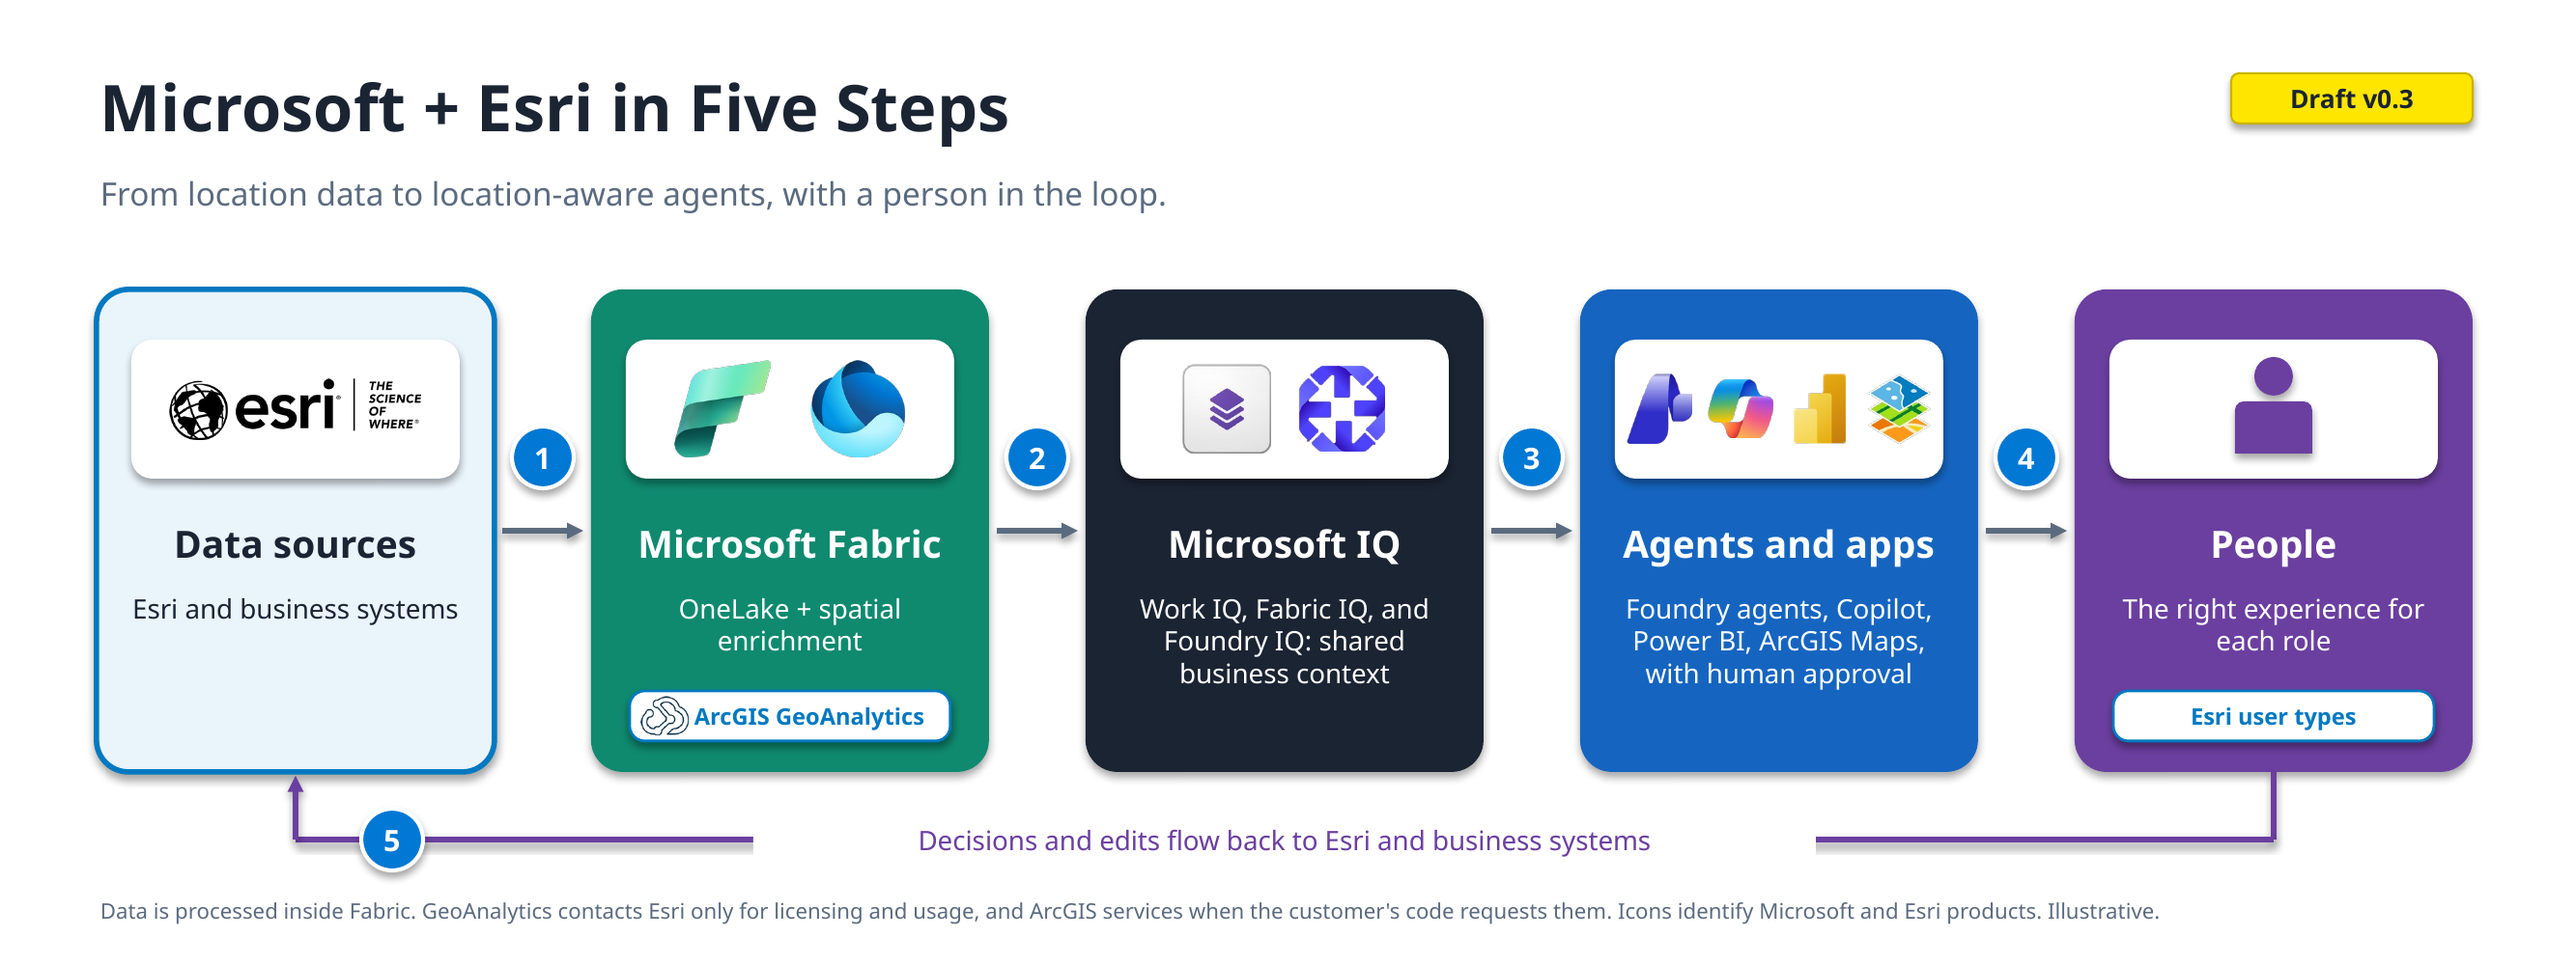
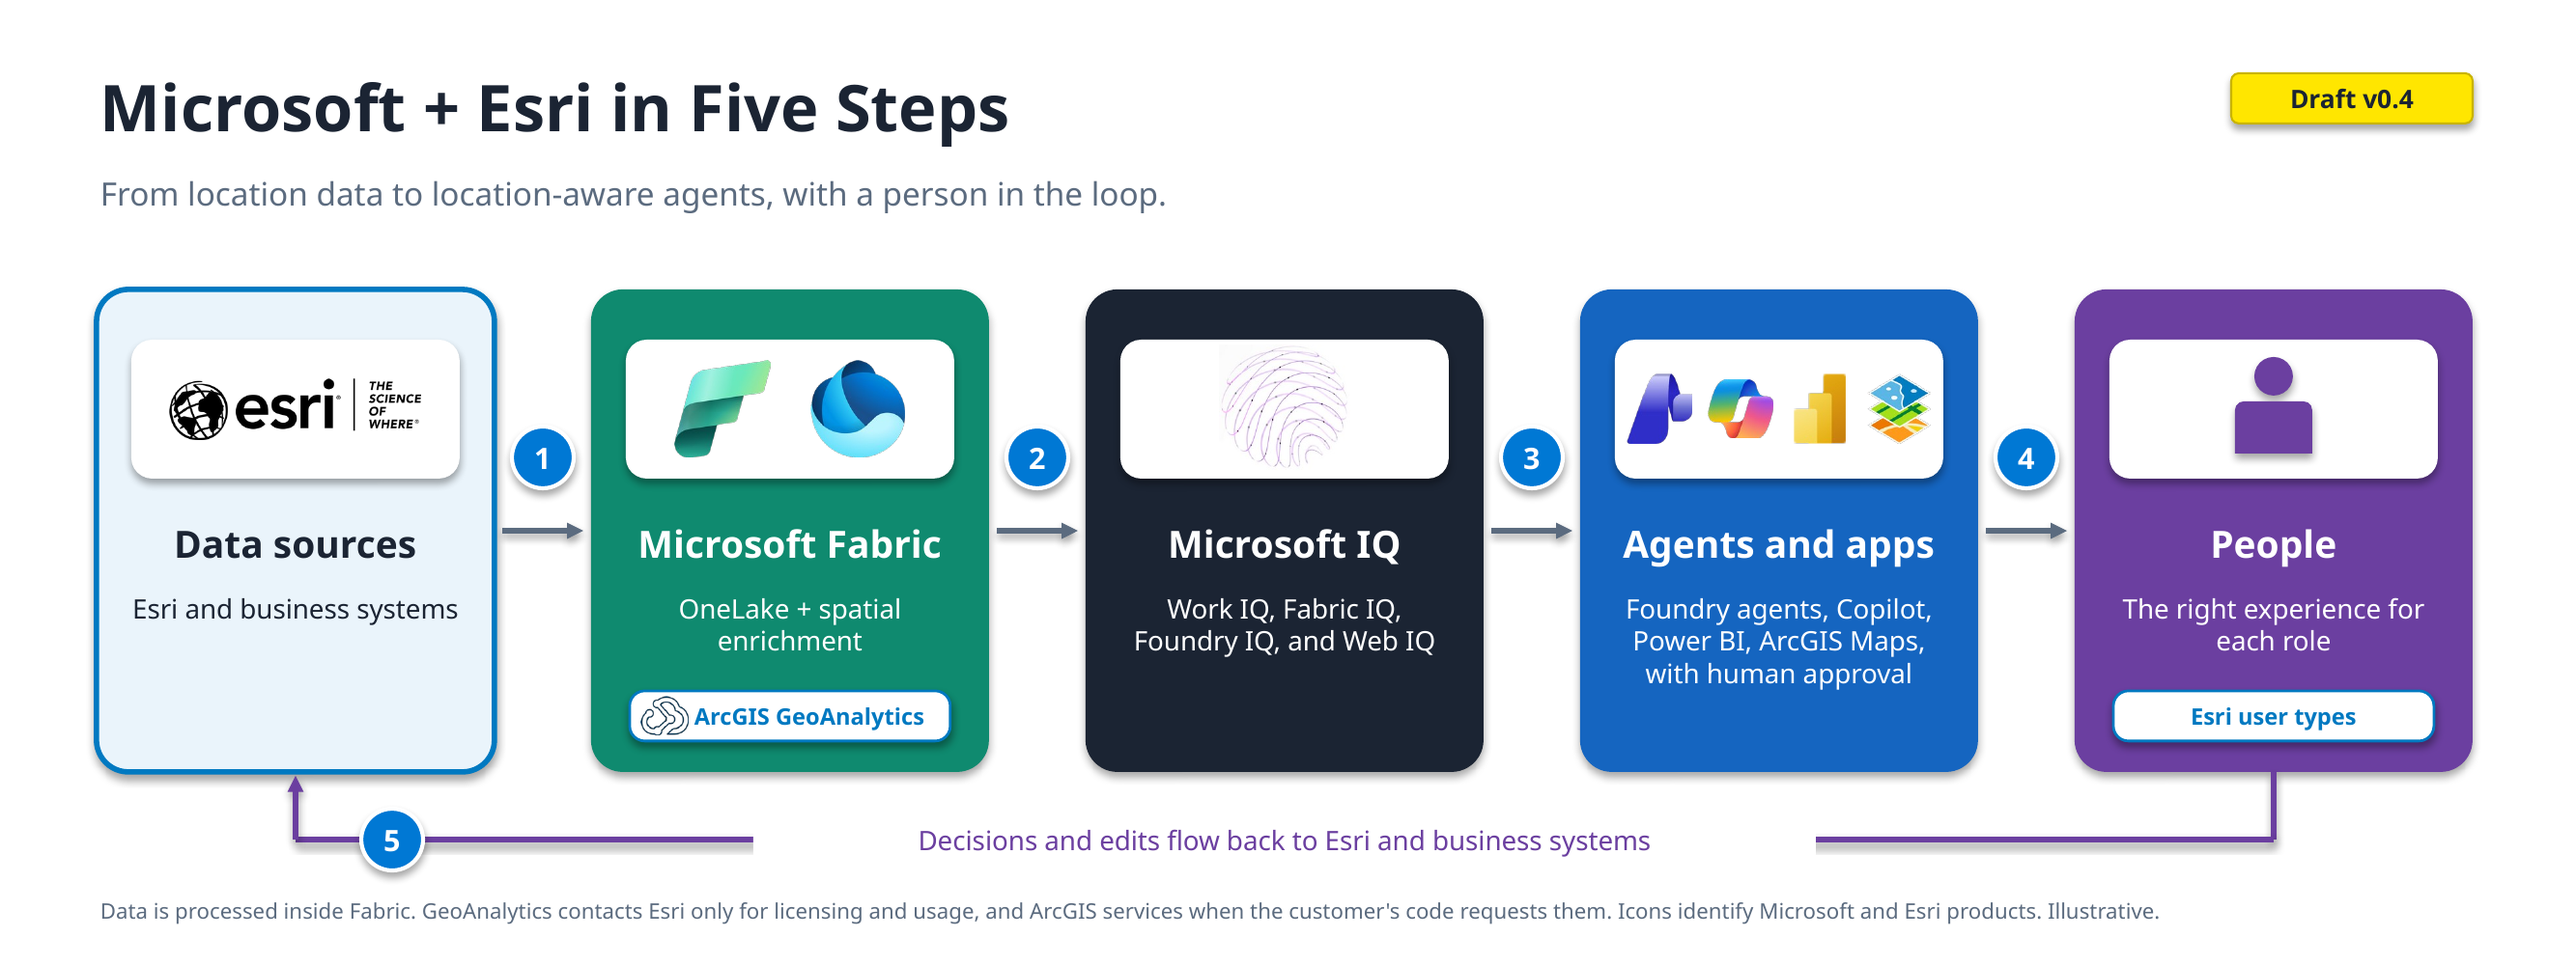
Foundation: five-step pitch leads the section; Web IQ added; Microsoft IQ sphere on tile (v0.4)

Changed region(s): [[0.4668, 0.372, 0.5602, 0.496], [0.4357, 0.62, 0.5602, 0.713]]

diff --git a/01-Microsoft-Esri-Foundation/README.md b/01-Microsoft-Esri-Foundation/README.md
@@ -1,6 +1,6 @@
 # Microsoft + Esri Foundation
 
-> **Status:** In progress. The five-step diagram (v0.3) and the detailed view (v0.9) are drafts; the integration landscape is current.
+> **Status:** In progress. The five-step diagram (v0.4) and the detailed view (v0.9) are drafts; the integration landscape is current.
 
 ## Purpose
 
@@ -12,17 +12,35 @@ Each component folder that follows (GeoAnalytics, Maps for Fabric, Power BI) goe
 
 ## The Story in One View
 
+**Microsoft + Esri turn location data into location-aware agents, with a person in the loop.** Esri and business data come together in Microsoft Fabric, get enriched with spatial analysis, are grounded by Microsoft IQ, and reach every role through agents and the apps people already use. Decisions flow back to where the data started.
+
 ![Microsoft + Esri in Five Steps](images/microsoft-esri-five-steps.png)
 
-1. **Data sources to Fabric.** Esri and business data flow into Microsoft Fabric, copied into OneLake or read in place from ArcGIS.
-2. **Fabric to Microsoft IQ.** After spatial enrichment with ArcGIS GeoAnalytics, Microsoft IQ models and indexes the data so agents understand what it means. The data stays in OneLake.
-3. **Microsoft IQ to agents and apps.** Grounded context powers agents, reports, maps, and conversations, with a person approving before any action.
-4. **Agents and apps to people.** Outcomes reach each persona in the tool, and Esri user type, that fits their role.
-5. **Back to the source.** Decisions and edits flow back to Esri and business systems.
+### 1. Data sources: start where the data lives
+
+Location data lives in Esri: ArcGIS Online, ArcGIS Enterprise, and field apps. Operational data lives in business systems such as ERP, asset management, and IoT. The story starts by bringing both together instead of keeping maps and business records apart.
+
+### 2. Microsoft Fabric: unify and enrich
+
+Data lands in OneLake, either copied in or read in place from ArcGIS. ArcGIS GeoAnalytics runs inside Fabric Spark to add spatial context such as proximity, tracks, hot spots, and spatial joins. The data is processed inside Fabric.
+
+### 3. Microsoft IQ: ground it in business context
+
+Microsoft IQ models and indexes the enriched data so agents understand what it means. Work IQ, Fabric IQ, Foundry IQ, and Web IQ connect how people work, how the business operates, reusable knowledge, and current information from the web. The data stays in OneLake.
+
+### 4. Agents and apps: act with a person in the loop
+
+Foundry agents and Copilot propose actions, and a person approves before anything changes. Results also surface in Power BI and ArcGIS Maps for Fabric, so insight reaches people through familiar tools.
+
+### 5. People: the right experience for each role
+
+Approvers, leaders, analysts, and field operators each get the experience their role needs, matched to the Esri user type they typically hold (illustrative). Decisions and edits flow back to Esri and business systems, closing the loop.
+
+> **The 30-second version:** Bring Esri and business data into Fabric. Enrich it spatially with GeoAnalytics. Ground it with Microsoft IQ. Let agents act, with a person approving, and deliver the outcome to every role.
 
 ### The Detailed View
 
-The same story with named components. The numbered bubbles match the steps above, plus step 6: Work IQ exchanges context and answers with Microsoft 365.
+The same story with named components, for audiences who want the next level of detail. It shows the three IQ layers this scenario uses directly: Fabric IQ, Foundry IQ, and Work IQ. The numbered bubbles match the steps above, plus step 6: Work IQ exchanges context and answers with Microsoft 365.
 
 ![Microsoft + Esri: From Location Data to Location-Aware Agents](images/microsoft-esri-elevator-pitch.png)
 
